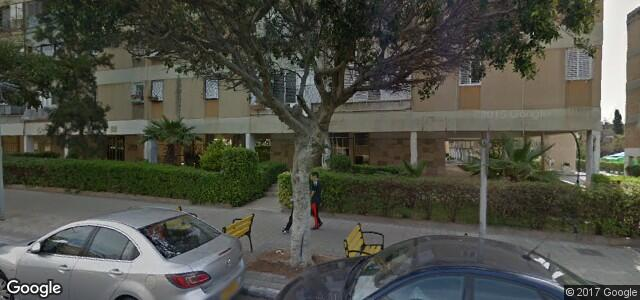
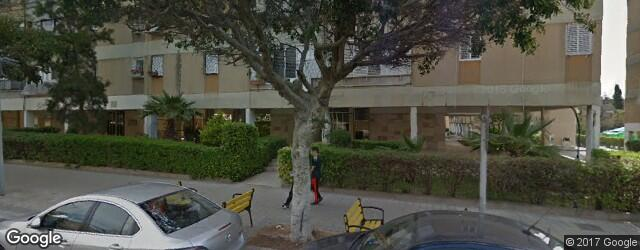
resort

diff --git a/app/Http/Controllers/SearchController.php b/app/Http/Controllers/SearchController.php
@@ -23,6 +23,23 @@ class SearchController extends Controller
 		/** @var GoogleResult $firstResult */
 		$firstResult = $result->getResults()->first();
 
+        $building = Building::where([
+            'google_place_id' => $firstResult->getPlaceId(),
+        ])->first();
+
+        if($building->exists()) {
+            $building->update([
+                'user_id'         => is_null(Auth::id()) ? \UsersTableSeeder::VISITOR_ID : Auth::id(),
+                'address'         => $firstResult->getFormattedAddress(),
+            ]);
+        } else {
+            $building = new Building([
+                'user_id'         => is_null(Auth::id()) ? \UsersTableSeeder::VISITOR_ID : Auth::id(),
+                'address'         => $firstResult->getFormattedAddress(),
+                'google_place_id' => $firstResult->getPlaceId(),
+            ]);
+        }
+
 		/** @var Building $building */
 		$building = Building::firstOrCreate([
 			'google_place_id' => $firstResult->getPlaceId(),

diff --git a/app/Http/Controllers/GoogleController.php b/app/Http/Controllers/GoogleController.php
@@ -5,13 +5,13 @@ use Google\Facades\Google;
 
 class GoogleController extends Controller
 {
-	public function showStreetViewImage($address = "") {
-		$imageBinary = Google::streetView()->findImageByAddress($address);
+	public function showStreetViewImage($address = "",  $width = 640, $height = 250) {
+		$imageBinary = Google::streetView()->findImageByAddress($address, $width, $height);
 		return response($imageBinary)->header('Content-type', 'image/jpeg');
 	}
 
-	public function showStaticMapImage($address = "") {
-		$imageBinary = Google::staticMaps()->findImageByAddress($address);
+	public function showStaticMapImage($address = "", $width = 640, $height = 640) {
+		$imageBinary = Google::staticMaps()->findImageByAddress($address, $width, $height);
 		return response($imageBinary)->header('Content-type', 'image/jpeg');
 	}
 }

diff --git a/routes/api.php b/routes/api.php
@@ -18,10 +18,10 @@ use Illuminate\Support\Facades\Route;
 
 
 //Street View
-Route::get( "street-view", "GoogleController@showStreetViewImage" );
+Route::get( "street-view/{address}/{width?}/{height?}", "GoogleController@showStreetViewImage" );
 
 //Street View
-Route::get( "static-map", "GoogleController@showStaticMapImage" );
+Route::get( "static-map/{address}/{width?}/{height?}", "GoogleController@showStaticMapImage" );
 
 //Building
 Route::resource( "buildings", "BuildingController" );
